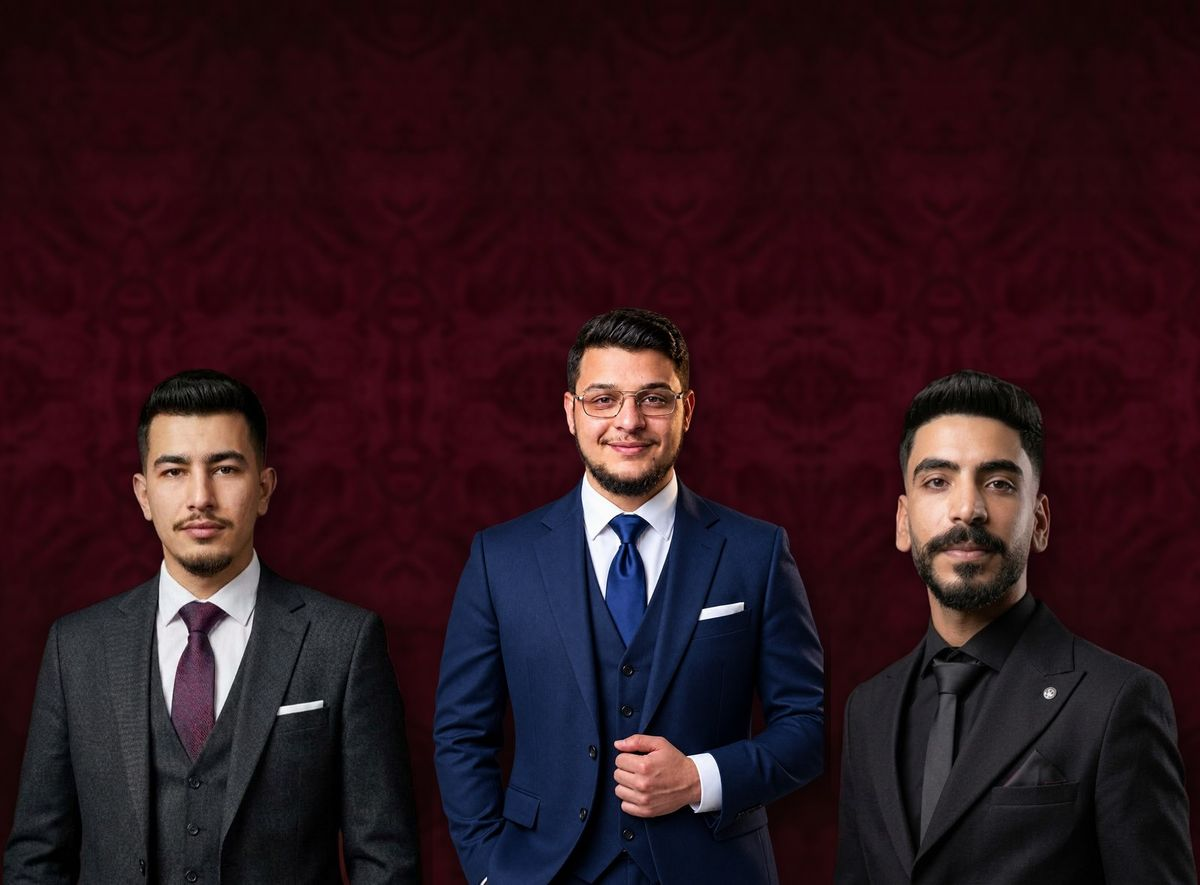
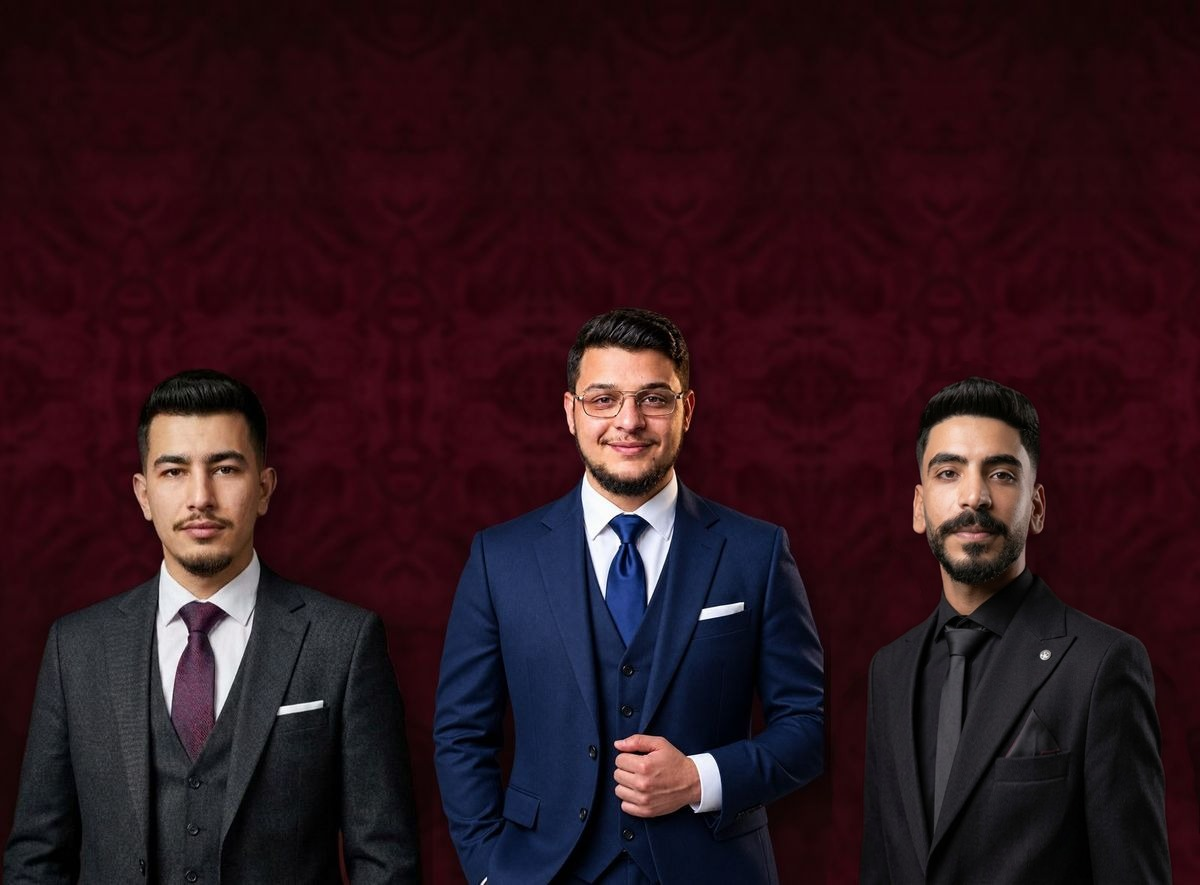
v18: marketer links - assets (try 1, 1792950647)

Changed region(s): [[0.6783, 0.4271, 1.0, 1.0]]

diff --git a/firebase.js b/firebase.js
@@ -21,6 +21,14 @@ try { auth.languageCode = 'ar'; } catch (e) {}
 // Firestore keeps retrying silently when the database is missing or offline; give the UI an answer.
 const T = (p, ms = 15000) => Promise.race([p, new Promise((_, rej) => setTimeout(() => rej(Object.assign(new Error('timeout'), { code: 'zx/timeout' })), ms))]);
 const tsToMs = t => (t && typeof t.toMillis === 'function') ? t.toMillis() : (typeof t === 'number' ? t : 0);
+// V18 referral code (marketer link ?ref=CODE). Same pattern as firestore.rules.
+const REF_OK = v => typeof v === 'string' && /^[a-z0-9-]{2,20}$/.test(v);
+const withRef = (data, ref) => (REF_OK(ref) ? { ...data, ref } : data);
+// If the published rules don't know `ref` yet, save the record without it instead of losing the customer.
+async function refSafe(write, data) {
+  try { return await write(data); }
+  catch (e) { if (e && e.code === 'permission-denied' && 'ref' in data) { const { ref, ...rest } = data; return await write(rest); } throw e; }
+}
 const norm = d => { const x = { id: d.id, ...d.data() }; x.createdAt = tsToMs(x.createdAt); if (x.reviewedAt) x.reviewedAt = tsToMs(x.reviewedAt); return x; };
 
 // Resolves once with the first auth state, then calls cb on every change.
@@ -35,16 +43,18 @@ export async function getProfile(uid) {
 
 export async function saveProfile(uid, p) {
   // Fields allowed by firestore.rules on create. role is always 'student' here.
-  await T(F.setDoc(F.doc(db, 'users', uid), {
+  // ref (optional) = the marketer code from the visitor's first referral link; rules make it immutable for students.
+  const r = F.doc(db, 'users', uid);
+  await refSafe(d => T(F.setDoc(r, d)), withRef({
     name: p.name, phone: p.phone, city: p.city, email: p.email,
     createdAt: F.serverTimestamp(), role: 'student'
-  }));
+  }, p.ref));
 }
 
-export async function register({ name, phone, city, email, password }) {
+export async function register({ name, phone, city, email, password, ref }) {
   const cred = await A.createUserWithEmailAndPassword(auth, email, password);
   try { await A.updateProfile(cred.user, { displayName: name }); } catch (e) {}
-  await saveProfile(cred.user.uid, { name, phone, city, email: cred.user.email || email });
+  await saveProfile(cred.user.uid, { name, phone, city, email: cred.user.email || email, ref });
   return { uid: cred.user.uid, email: cred.user.email };
 }
 
@@ -59,13 +69,14 @@ export async function myPayments(uid) {
 }
 
 export async function createPayment(p) {
-  const ref = await T(F.addDoc(F.collection(db, 'payments'), {
+  const col = F.collection(db, 'payments');
+  const ref = await refSafe(d => T(F.addDoc(col, d)), withRef({
     uid: p.uid, name: p.name, phone: p.phone, city: p.city || '', email: p.email || '',
     course: p.course, courseTitle: p.courseTitle, price: p.price,
     method: p.method, note: p.note || '',
     ...(p.course === 'consultation' ? { consultType: String(p.consultType || '').slice(0, 80), contactMethod: String(p.contactMethod || '').slice(0, 40) } : {}),
     status: 'pending', txId: '', createdAt: F.serverTimestamp()
-  }));
+  }, p.ref));
   return ref.id;
 }
 
@@ -81,14 +92,26 @@ export async function updatePayment(id, patch) {
 // (Paid consultations are not leads: they are payments with course 'consultation'.) ----
 const cut = (v, n) => String(v ?? '').trim().slice(0, n);
 export async function createLead(l) {
-  const ref = await T(F.addDoc(F.collection(db, 'leads'), {
+  const col = F.collection(db, 'leads');
+  const ref = await refSafe(d => T(F.addDoc(col, d)), withRef({
     type: 'inquiry',
     name: cut(l.name, 80), contact: cut(l.contact, 120), contactMethod: cut(l.contactMethod, 40),
     city: cut(l.city, 60), interest: cut(l.interest, 80), message: cut(l.message, 500),
     status: 'new', createdAt: F.serverTimestamp()
-  }));
+  }, l.ref));
   return ref.id;
 }
 export async function allLeads() { const s = await T(F.getDocs(F.collection(db, 'leads'))); return s.docs.map(norm).sort((a, b) => b.createdAt - a.createdAt); }
 export async function updateLead(id, patch) { await T(F.updateDoc(F.doc(db, 'leads', id), patch)); }
 export async function deleteAccountSelf() { if (auth.currentUser) await A.deleteUser(auth.currentUser); }
+// ---- V18 marketers (admin only, enforced by rules). Doc id = the referral code. ----
+export async function allMarketers() { const s = await T(F.getDocs(F.collection(db, 'marketers'))); return s.docs.map(norm); }
+export async function addMarketer(code, m) {
+  if (!REF_OK(code)) throw Object.assign(new Error('bad code'), { code: 'zx/bad-ref' });
+  const r = F.doc(db, 'marketers', code);
+  if ((await T(F.getDoc(r))).exists()) throw Object.assign(new Error('exists'), { code: 'zx/ref-exists' });
+  await T(F.setDoc(r, { name: cut(m.name, 60), phone: cut(m.phone, 25), commission: +m.commission || 0, active: true, createdAt: F.serverTimestamp() }));
+}
+export async function updateMarketer(code, patch) { await T(F.updateDoc(F.doc(db, 'marketers', code), patch)); }
+// Admin fixes a student's attribution (ref). Students can never change it themselves (rules).
+export async function updateUser(uid, patch) { await T(F.updateDoc(F.doc(db, 'users', uid), patch)); }

diff --git a/style.css b/style.css
@@ -283,3 +283,40 @@ input,select,textarea{width:100%}
   .zx-tabs{gap:2px;overflow:visible}
   .zx-tab{flex:1 1 0;min-width:0;padding:10px 2px;font-size:13px;white-space:normal;text-align:center;line-height:1.35;flex-wrap:wrap;gap:4px}
   .zx-tab .zx-count{min-width:20px;height:20px;font-size:11px}}
+
+/* ===== V18 — marketers tab (referral links) ===== */
+.zx-ref{display:inline-block;background:#fbe9ec;color:var(--red);border-radius:999px;padding:4px 10px;font-size:12px;font-weight:900;white-space:nowrap;max-width:100%;overflow:hidden;text-overflow:ellipsis}
+.zx-ref.unk{background:#f0efee;color:#666}
+.zx-range{display:flex;gap:10px;flex-wrap:wrap;margin:-4px 0 14px}
+.zx-range label{display:flex;align-items:center;gap:6px;font-weight:800;font-size:13px}
+.zx-range input{padding:7px 9px;border:1px solid #ddd7d3;border-radius:9px;font:inherit;font-size:13px;max-width:150px}
+.zx-mk-sum{display:grid;grid-template-columns:repeat(4,minmax(0,1fr));gap:10px;margin:0 0 10px}
+.zx-mk-sum div,.zx-mk-stats div{background:#faf7f5;border:1px solid var(--line);border-radius:12px;padding:10px 12px;min-width:0}
+.zx-mk-sum small,.zx-mk-stats small{display:block;font-size:12px;color:var(--muted);font-weight:800}
+.zx-mk-sum strong{font-size:22px;font-weight:900}
+.zx-mk-list{display:grid;grid-template-columns:repeat(auto-fill,minmax(min(330px,100%),1fr));gap:14px}
+.zx-mk{border:1px solid var(--line);border-radius:16px;padding:14px;background:#fff;display:flex;flex-direction:column;gap:10px;min-width:0}
+.zx-mk.off{opacity:.7}
+.zx-mk.unk{background:#fbfaf9;border-style:dashed}
+.zx-mk-head{display:flex;justify-content:space-between;align-items:flex-start;gap:10px}
+.zx-mk-head>div{min-width:0;overflow-wrap:anywhere}
+.zx-mk-head strong{font-size:17px}
+.zx-mk-head .btn{flex:none}
+.zx-link code{direction:ltr;text-align:left;font-size:12.5px}
+.zx-mk-wa{align-self:flex-start;padding:7px 12px;font-size:13px}
+.zx-mk-stats{display:grid;grid-template-columns:repeat(2,minmax(0,1fr));gap:8px}
+.zx-mk-stats strong{font-size:20px;font-weight:900}
+.zx-mk-stats .zx-mk-com{background:#fbe9ec;border-color:#f3c5ce}
+.zx-mk-stats .zx-mk-com strong{color:var(--red)}
+.zx-mk-pct{display:flex;align-items:center;justify-content:space-between;gap:10px;flex-wrap:wrap;border-top:1px solid var(--line);padding-top:10px}
+.zx-mk-pct label{font-weight:800;font-size:13px}
+.zx-mk-pct .zx-tx input{width:80px;min-width:0}
+.zx-mk-form{display:grid;grid-template-columns:repeat(2,minmax(0,1fr));gap:0 14px}
+.zx-mk-form .field input{width:100%}
+.zx-mk-form .zx-mk-preview,.zx-mk-form #mkMsg,.zx-mk-form #mkAdd{grid-column:1/-1}
+.zx-mk-preview{margin:0 0 14px}
+.zx-mk-preview .zx-addr{margin-top:6px}
+.zx-mk-new{display:flex;flex-direction:column;gap:10px;margin:0 0 16px}
+.zx-check{display:flex;align-items:center;gap:8px;font-weight:800}
+.zx-check input{width:18px;height:18px;accent-color:var(--red)}
+@media(max-width:700px){.zx-mk-sum{grid-template-columns:1fr 1fr}.zx-mk-form{grid-template-columns:1fr}.zx-mk-sum strong{font-size:19px}}
